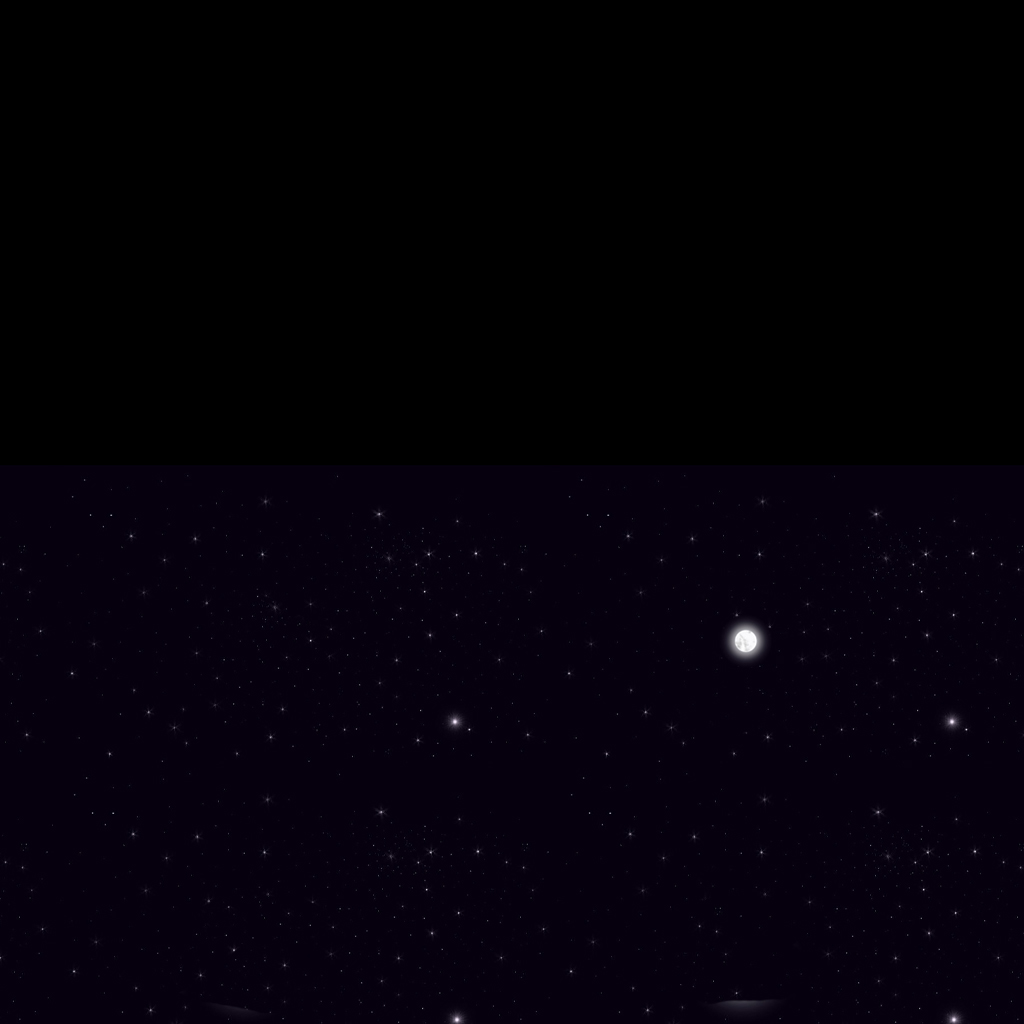
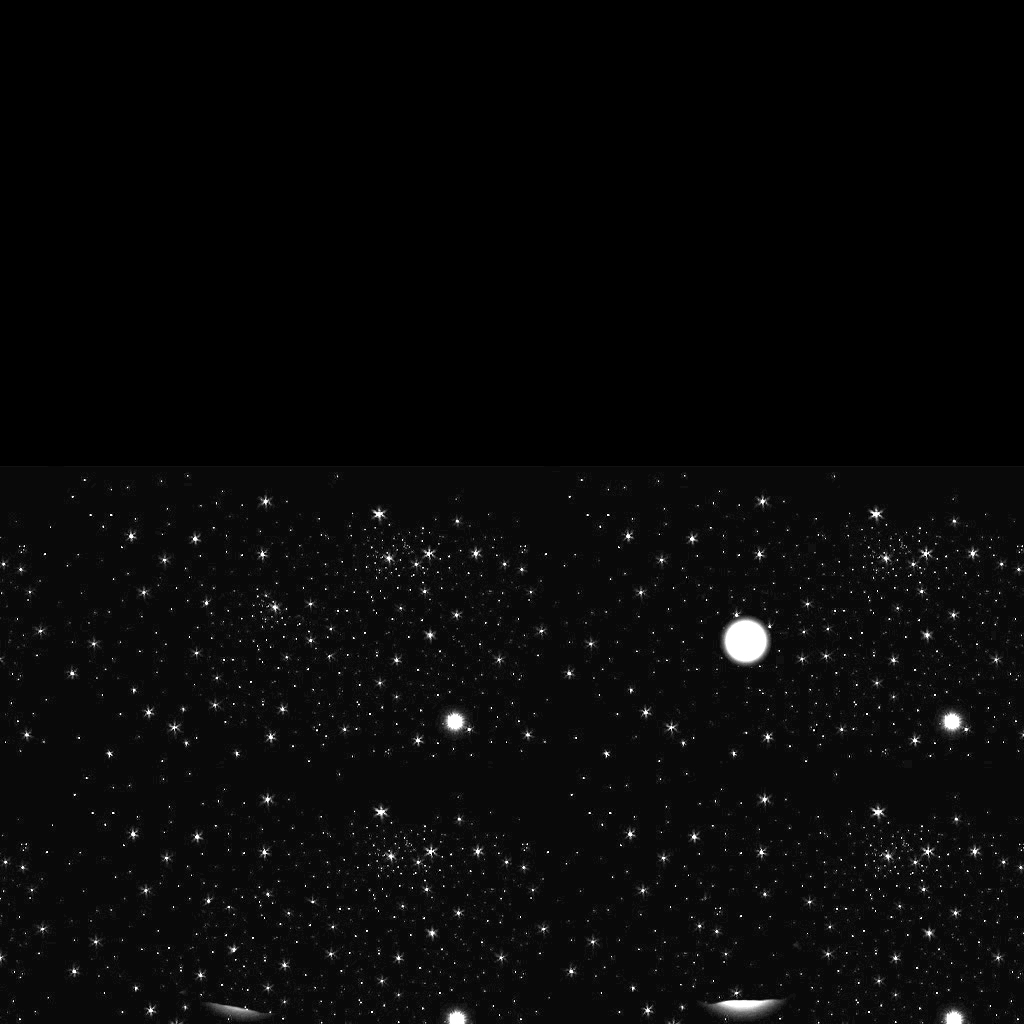
More tweeks

diff --git a/custom/main.js b/custom/main.js
@@ -7,6 +7,7 @@ var chat = document.getElementById('buton_chat');
 var story = document.getElementById('buton_story');
 var closer = document.getElementById('buton_close');
 
+
 function openRightSidePanel()
 {
 	//if(document.getElementById("rightSide").style.right === '0px')
@@ -17,7 +18,9 @@ function openRightSidePanel()
 	}
 	if(reading === true)
 	{
-	web.onclick = function(){document.getElementById("iframe").src = "http://www.aeche.eu/Index.html"};
+	web.onclick = function(){
+		document.getElementById("iframe").src = "http://www.aeche.eu/Index.html"
+	};
 	chat.onclick = function(){document.getElementById("iframe").src = "https://kiwiirc.com/client/irc.kiwiirc.com/?nick=alex|?&theme=mini#aeche_game"};
 	story.onclick = function(){document.getElementById("iframe").src = "http:www.aeche.eu/Praslea/page1.html"};
 	story.onclick = function(){document.getElementById("iframe").src = "http:www.aeche.eu/Praslea/page1.html"};

diff --git a/art/sky.js b/art/sky.js
@@ -25,7 +25,8 @@
 "mapDiffuse"    : "Sky.jpg",
 "vertexColors" : false,
 "shading":"Phong",
-"transparent":true
+"transparent":true,
+"emission": 0.5
 }
 
 ],
